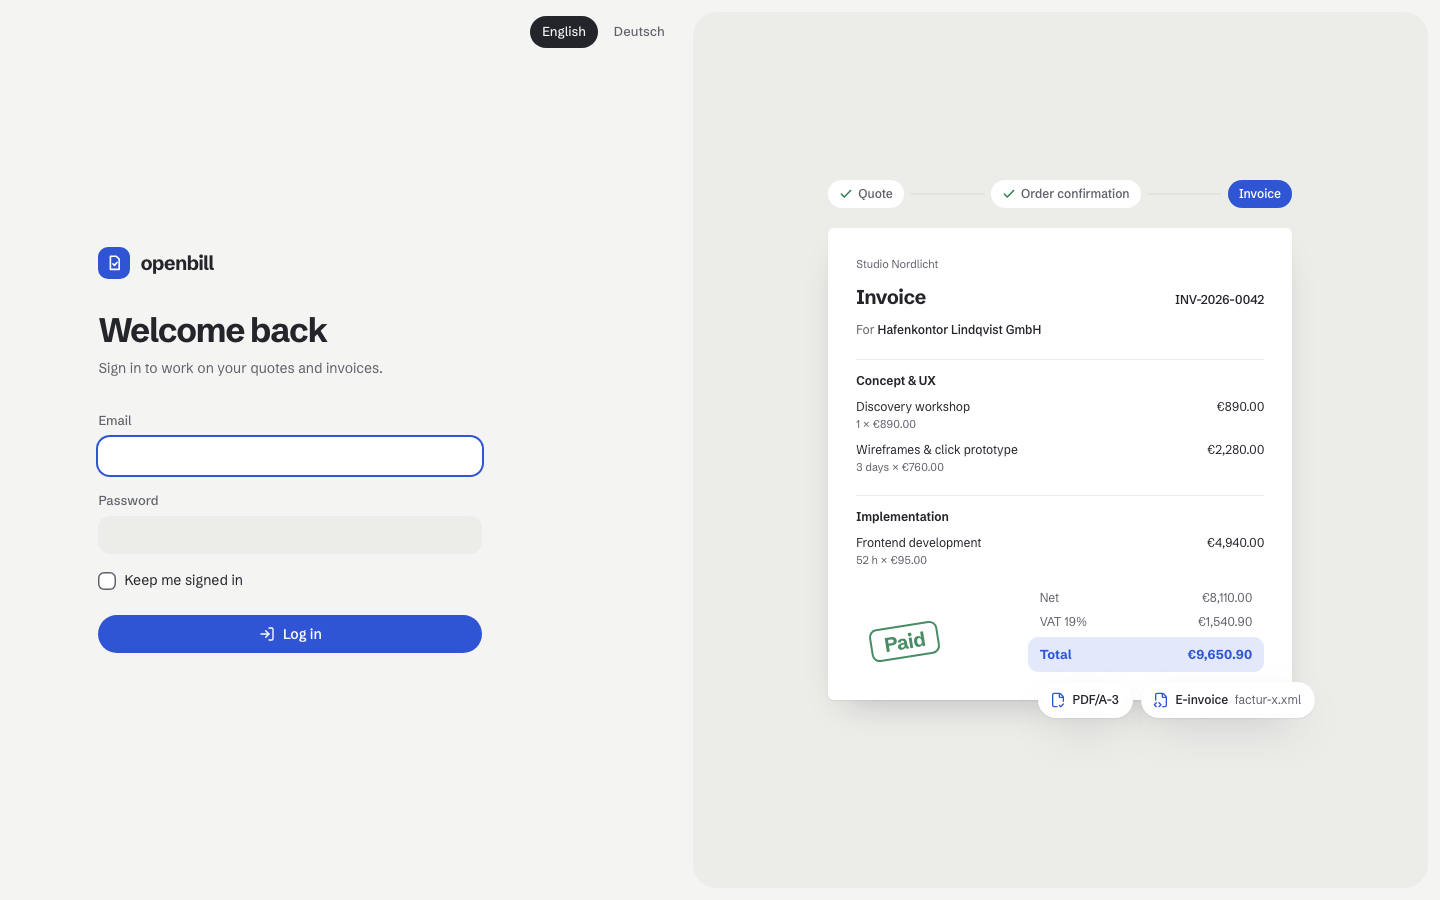
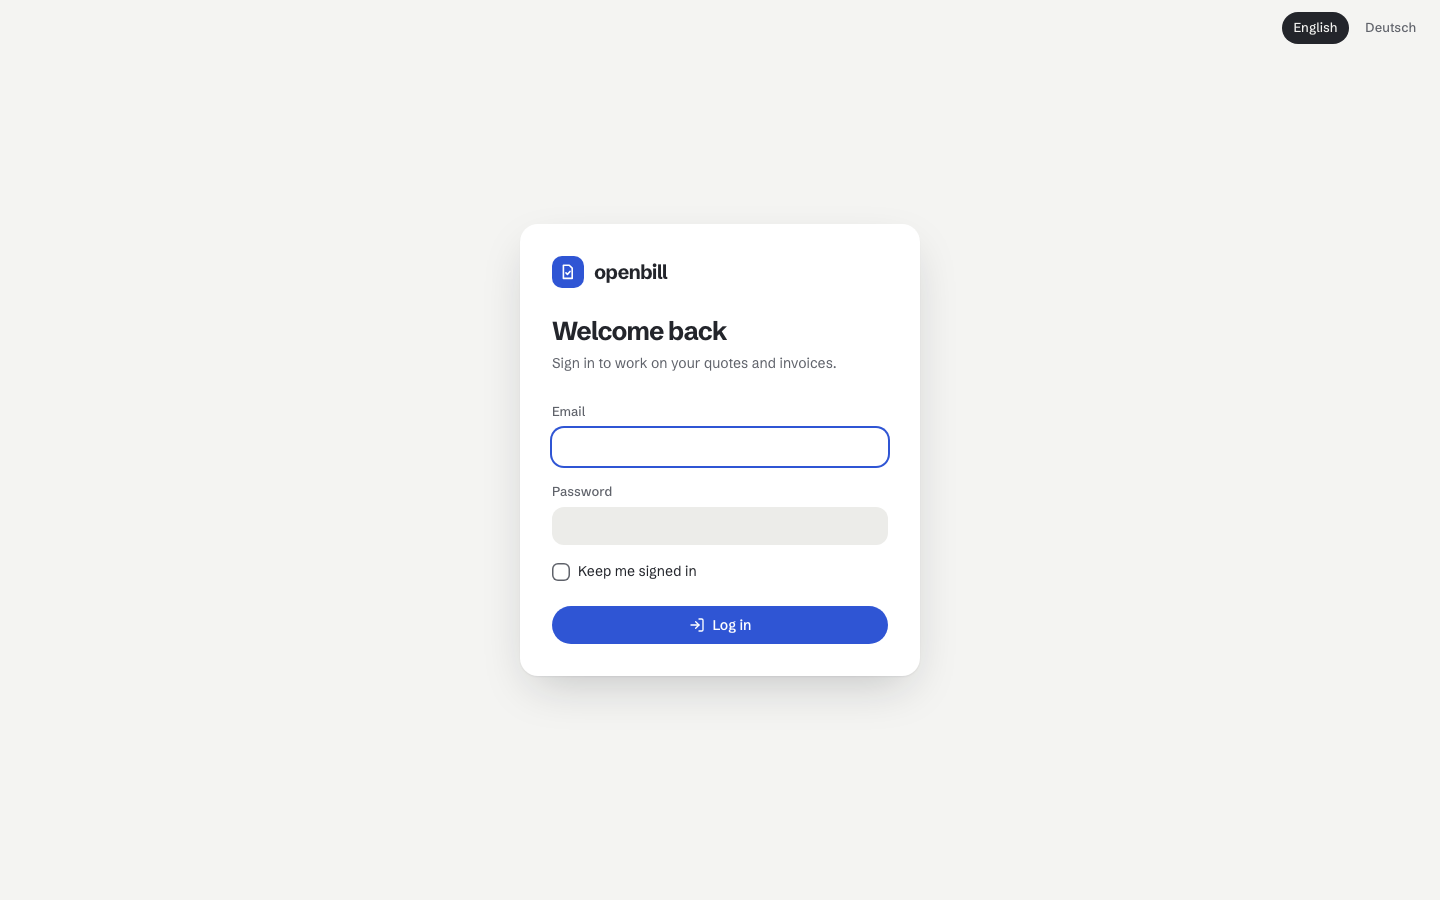
feat: centered login card instead of the illustration
Drop the right-hand illustration (invoice hero, its CSS, paper tokens,
translation keys and icons) and show the login as one card centered on
the page background: logo, heading, subline and the unchanged form; the
language switch stays in the top right of the page. The invitation page
uses the same card (layouts/auth-card.tsx). Subtle fade-in only, which
the reduced-motion rule shortens.

diff --git a/resources/js/pages/login.tsx b/resources/js/pages/login.tsx
@@ -1,69 +1,56 @@
 import { Head, useForm } from '@inertiajs/react';
 import { LogIn } from 'lucide-react';
 import { LocaleSwitch } from '@/components/locale-switch';
-import { LoginArt } from '@/components/login-art';
 // direct imports, not the ui barrel: the barrel re-exports Radix dialogs and menus the login does not need
 import { Button } from '@/components/ui/button';
 import { Checkbox, TextInput } from '@/components/ui/form';
-import { LogoMark } from '@/layouts/logo';
+import { AuthCard } from '@/layouts/auth-card';
 import { path, t } from '@/lib/i18n';
 
 export default function Login() {
     const form = useForm({ email: '', password: '', remember: false });
 
     return (
-        <main className="grid min-h-dvh gap-3 p-3 md:grid-cols-[minmax(0,1fr)_minmax(0,1.1fr)]">
+        <AuthCard corner={<LocaleSwitch />}>
             <Head title={t('login.title')} />
-            <div className="relative grid content-center justify-items-start gap-8 px-3 py-12 sm:px-[clamp(1.5rem,6vw,6rem)]">
-                <div className="absolute top-1 right-1">
-                    <LocaleSwitch />
-                </div>
-                <div className="flex items-center gap-2.5 text-xl font-bold tracking-brand">
-                    <LogoMark />
-                    <span>openbill</span>
-                </div>
-                <div>
-                    <h1 className="text-3xl font-bold tracking-brand">{t('login.welcome')}</h1>
-                    <p className="mt-2 max-w-[34ch] text-muted">{t('login.lead')}</p>
-                </div>
-                {/* noValidate: the server answers in the page language (lang/de/validation.php) instead of the browser */}
-                <form
-                    noValidate
-                    className="grid w-full max-w-sm gap-4"
-                    onSubmit={(event) => {
-                        event.preventDefault();
-                        form.post(path('/login'), { onFinish: () => form.reset('password') });
-                    }}
-                >
-                    <TextInput
-                        label={t('login.email')}
-                        name="email"
-                        type="email"
-                        autoComplete="username"
-                        spellCheck={false}
-                        autoFocus
-                        value={form.data.email}
-                        error={form.errors.email}
-                        onChange={(e) => form.setData('email', e.target.value)}
-                    />
-                    <TextInput
-                        label={t('login.password')}
-                        name="password"
-                        type="password"
-                        autoComplete="current-password"
-                        value={form.data.password}
-                        error={form.errors.password}
-                        onChange={(e) => form.setData('password', e.target.value)}
-                    />
-                    <Checkbox label={t('login.remember')} name="remember" checked={form.data.remember} onChange={(e) => form.setData('remember', e.target.checked)} />
-                    <Button type="submit" variant="primary" icon={<LogIn />} pending={form.processing} className="mt-2">
-                        {t('login.submit')}
-                    </Button>
-                </form>
+            <div>
+                <h1 className="text-2xl font-bold tracking-brand">{t('login.welcome')}</h1>
+                <p className="mt-1.5 text-pretty text-muted">{t('login.lead')}</p>
             </div>
-            <div className="relative hidden place-items-center overflow-hidden rounded-xl bg-surface-2 p-10 md:grid">
-                <LoginArt />
-            </div>
-        </main>
+            {/* noValidate: the server answers in the page language (lang/de/validation.php) instead of the browser */}
+            <form
+                noValidate
+                className="grid gap-4"
+                onSubmit={(event) => {
+                    event.preventDefault();
+                    form.post(path('/login'), { onFinish: () => form.reset('password') });
+                }}
+            >
+                <TextInput
+                    label={t('login.email')}
+                    name="email"
+                    type="email"
+                    autoComplete="username"
+                    spellCheck={false}
+                    autoFocus
+                    value={form.data.email}
+                    error={form.errors.email}
+                    onChange={(e) => form.setData('email', e.target.value)}
+                />
+                <TextInput
+                    label={t('login.password')}
+                    name="password"
+                    type="password"
+                    autoComplete="current-password"
+                    value={form.data.password}
+                    error={form.errors.password}
+                    onChange={(e) => form.setData('password', e.target.value)}
+                />
+                <Checkbox label={t('login.remember')} name="remember" checked={form.data.remember} onChange={(e) => form.setData('remember', e.target.checked)} />
+                <Button type="submit" variant="primary" icon={<LogIn />} pending={form.processing} className="mt-2">
+                    {t('login.submit')}
+                </Button>
+            </form>
+        </AuthCard>
     );
 }

diff --git a/resources/js/pages/invitation.tsx b/resources/js/pages/invitation.tsx
@@ -1,7 +1,7 @@
 import { Head, Link, useForm } from '@inertiajs/react';
 import { UserCheck } from 'lucide-react';
 import { Button, Notice, TextInput } from '@/components/ui';
-import { LogoMark } from '@/layouts/logo';
+import { AuthCard } from '@/layouts/auth-card';
 import { path, t } from '@/lib/i18n';
 
 type Props = { state: 'open' | 'expired' | 'closed'; email: string | null; role: 'owner' | 'member' | null };
@@ -12,26 +12,22 @@ export default function Invitation({ state, email, role }: Props) {
     const errors = form.errors as Record<string, string | undefined>;
 
     return (
-        <main className="grid min-h-dvh content-center justify-items-start gap-8 px-6 py-12 sm:px-[clamp(1.5rem,8vw,8rem)]">
+        <AuthCard>
             <Head title={t('invitation.title')} />
-            <div className="flex items-center gap-2.5 text-xl font-bold tracking-brand">
-                <LogoMark />
-                <span>openbill</span>
-            </div>
             <div>
-                <h1 className="text-3xl font-bold tracking-brand">{t('invitation.title')}</h1>
-                {state === 'open' && email && role && <p className="mt-2 max-w-[44ch] text-muted">{t('invitation.lead', { email, role: t(`users.role.${role}`) })}</p>}
+                <h1 className="text-2xl font-bold tracking-brand">{t('invitation.title')}</h1>
+                {state === 'open' && email && role && <p className="mt-1.5 text-pretty text-muted">{t('invitation.lead', { email, role: t(`users.role.${role}`) })}</p>}
             </div>
 
             {state !== 'open' ? (
-                <div className="grid max-w-sm gap-4">
+                <div className="grid gap-4">
                     <Notice tone="warn">{state === 'expired' ? t('invitation.expired') : t('invitations.closed')}</Notice>
                     <Link href={path('/login')}>{t('invitation.to_login')}</Link>
                 </div>
             ) : (
                 <form
                     noValidate
-                    className="grid w-full max-w-sm gap-4"
+                    className="grid gap-4"
                     onSubmit={(event) => {
                         event.preventDefault();
                         // the signature is part of the URL: post to exactly this address
@@ -48,6 +44,6 @@ export default function Invitation({ state, email, role }: Props) {
                     </Button>
                 </form>
             )}
-        </main>
+        </AuthCard>
     );
 }

diff --git a/resources/js/layouts/auth-card.tsx b/resources/js/layouts/auth-card.tsx
@@ -1,0 +1,21 @@
+import type { ReactNode } from 'react';
+import { LogoMark } from '@/layouts/logo';
+
+/**
+ * Signed-out pages (login, invitation): one card centred on the page background, the logo on top. `corner` sits in the
+ * top right of the page (the language switch of the login). Only imports the logo, so the login chunk stays small.
+ */
+export function AuthCard({ corner, children }: { corner?: ReactNode; children: ReactNode }) {
+    return (
+        <main className="relative grid min-h-dvh place-items-center px-4 py-16">
+            {corner && <div className="absolute top-3 right-3">{corner}</div>}
+            <div className="grid w-full max-w-[25rem] animate-fade-in gap-7 rounded-lg bg-surface p-6 shadow-float xs:p-8">
+                <div className="flex items-center gap-2.5 text-xl font-bold tracking-brand">
+                    <LogoMark />
+                    <span>openbill</span>
+                </div>
+                {children}
+            </div>
+        </main>
+    );
+}

diff --git a/resources/css/app.css b/resources/css/app.css
@@ -3,7 +3,6 @@
 @import './editor.css';
 @import './templates.css';
 @import './settings.css';
-@import './login.css';
 @source '../js';
 @source '../views';
 
@@ -38,14 +37,6 @@
     --elev-paper: 0 1px 2px rgb(20 22 30 / 0.06), 0 16px 36px -18px rgb(20 22 30 / 0.28);
     --elev-float: 0 1px 2px rgb(20 22 30 / 0.06), 0 18px 48px -12px rgb(20 22 30 / 0.22);
     --elev-tab: 0 1px 2px rgb(20 22 30 / 0.08);
-    /* printed paper (login illustration): stays white in dark mode as well, so dark mode does not assign these */
-    --paper: #ffffff;
-    --paper-ink: #23252b;
-    --paper-muted: #5f626a;
-    --paper-line: #ecece9;
-    --paper-accent: #2f55d4;
-    --paper-accent-soft: #e3e9fb;
-    --paper-ok: #2e7d4f;
     --font: 'Schibsted Grotesk Variable', ui-sans-serif, system-ui, -apple-system, 'Segoe UI', sans-serif;
     --font-code: ui-monospace, 'SF Mono', 'Cascadia Code', Menlo, monospace;
     color-scheme: light;

diff --git a/CLAUDE.md b/CLAUDE.md
@@ -227,7 +227,7 @@ VitePress in `docs/`, Englisch unter `docs/en/` (Locale `root` mit `link: '/en/'
 - Ein Entwurf übernimmt das Template seines Dokumenttyps beim Anlegen (`CreateDocument`); später geänderte Vorgaben am Dokumenttyp wirken nicht auf bestehende Entwürfe.
 - Pest: Nach dem ersten API-Request ist `sanctum` der Standard-Guard. Wer danach als anderer Nutzer die Session-API testet, ruft `forgetApiAuth()` und `actingAs($user, 'web')` auf, sonst landet der Nutzer ohne `TransientToken` am Sanctum-Guard (403 „needs: session“).
 - `TextInput`/`Select` setzen `text-md`: `className="font-mono text-sm"` wäre ein Klassenkonflikt – nur `font-mono` ergänzen. Was gemeinsame Komponenten in Editor-Panes oder Einstellungskarten anders färben muss, steht außerhalb von `@layer` in `resources/css/templates.css` bzw. `settings.css`.
-- Seiten werden lazy geladen (`import.meta.glob` ohne `eager` in `app.tsx`): jede Seite ist ein eigener Chunk, CodeMirror liegt nur im Chunk von `templates/show`. Die Login-Seite importiert die UI-Komponenten direkt (`@/components/ui/button` …), nicht über das Barrel `@/components/ui` – das Barrel zieht Radix-Dialoge und -Menüs mit (Login sonst ~490 statt ~385 kB).
+- Seiten werden lazy geladen (`import.meta.glob` ohne `eager` in `app.tsx`): jede Seite ist ein eigener Chunk, CodeMirror liegt nur im Chunk von `templates/show`. Die Login-Seite importiert die UI-Komponenten direkt (`@/components/ui/button` …), nicht über das Barrel `@/components/ui` – das Barrel zieht Radix-Dialoge und -Menüs mit (Login sonst ~490 statt ~385 kB). Login und Einladung sind eine zentrierte Karte (`resources/js/layouts/auth-card.tsx`, importiert nur das Logo).
 - **MCP-Tools testen:** In-Process mit `mcpTool(XTool::class, [...])` (`OpenbillServer::actingAs()->tool()`, Actor = Nutzer) und `mcpJson()`; über HTTP mit `mcpCall($token, 'tool-name', [...])` (Actor = Token). Ein Tool muss in `OpenbillServer::$tools` stehen, sonst findet die Testing-API es nicht. laravel/mcp fängt jede Exception eines Tools selbst und macht ohne `APP_DEBUG` „An internal server error occurred.“ daraus – erwartbare Fehler deshalb in `OpenbillTool::handle()` übersetzen, nie im Tool selbst `try/catch` verteilen.
 - `tools/list` blättert bei laravel/mcp standardmäßig nach 15 Einträgen; `OpenbillServer::$defaultPaginationLength = 50` liefert alle Tools in einer Antwort (Clients folgen `nextCursor` nicht zuverlässig).
 - Tool-Beschreibungen und `docs/*/mcp.md` dürfen keine Wörter enthalten, die wie ein nicht existierendes Tool aussehen (`set-up`, `get-…`): `McpServerTest` sucht nach `(get|list|create|update|finalize|set|convert|cancel|duplicate|save|render)-…`.
